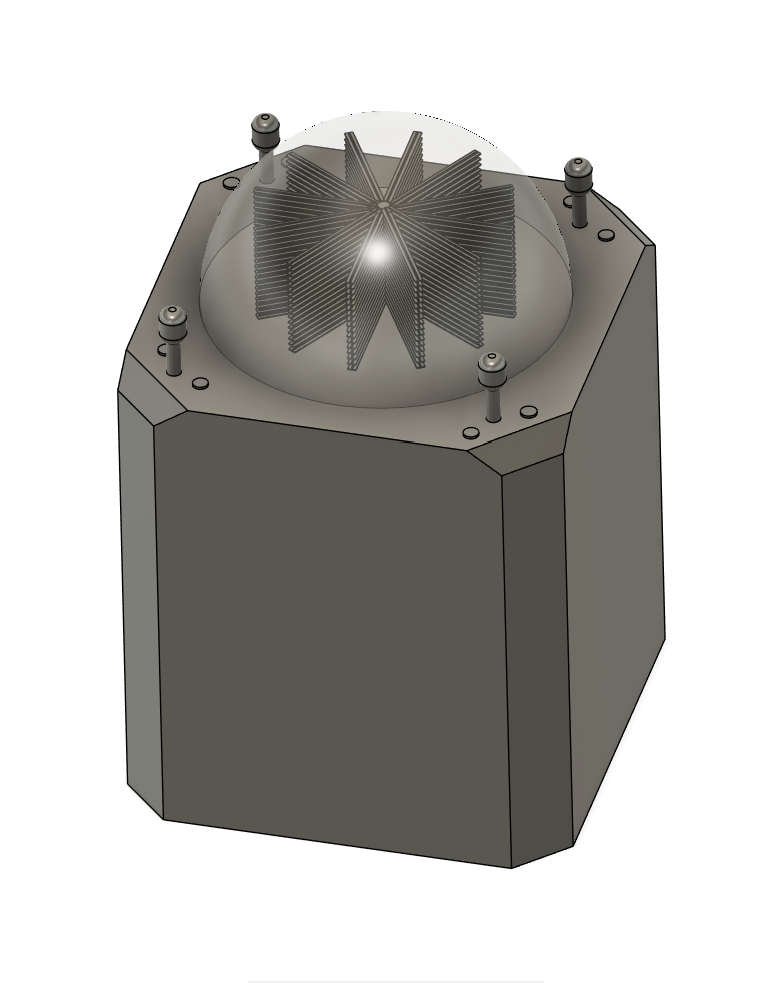
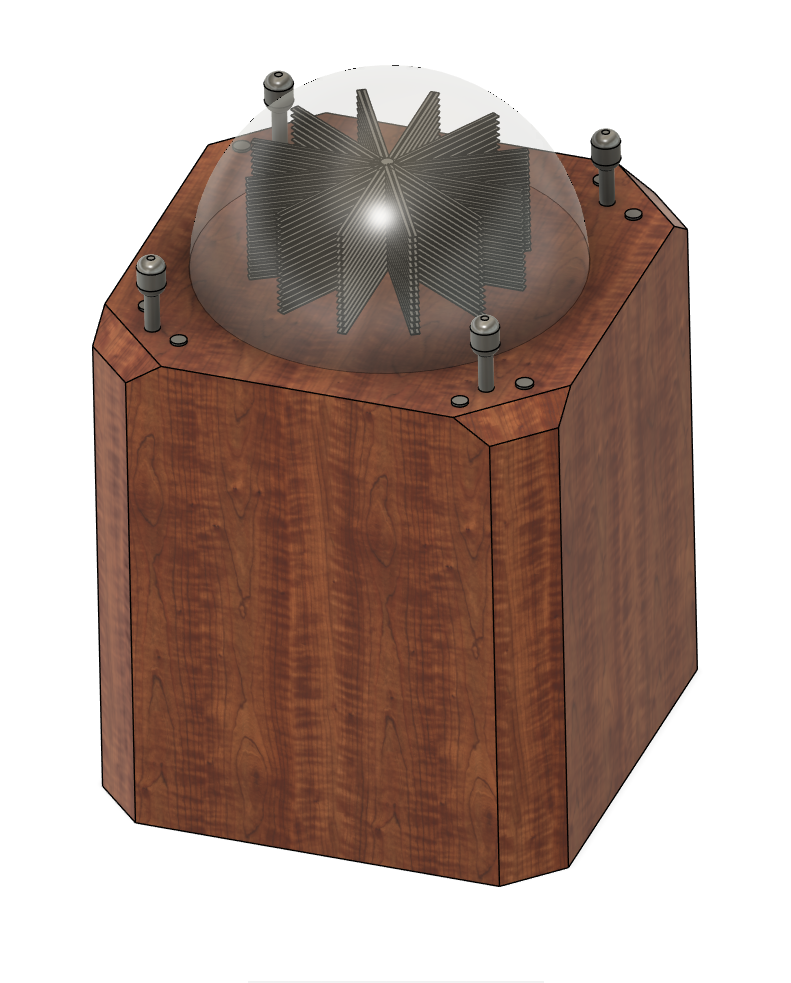
started adding content to tesseract page

diff --git a/projects/tesseract_v1.html b/projects/tesseract_v1.html
@@ -6,7 +6,7 @@
 -->
 <html>
 	<head>
-		<title>Projects - 2304A UI Upgrade - Larry Kresse</title>
+		<title>Projects - Tesseract 3D Display - Larry Kresse</title>
 		<meta charset="utf-8" />
 		<meta name="viewport" content="width=device-width, initial-scale=1, user-scalable=no" />
 		<meta name="description" content="" />
@@ -68,14 +68,14 @@
 					
 						<header>
 							
-							<h1>Keithley 2304A UI Upgrade</h1>
-							<p class="gold_always">An aftermarket upgrade for a 30-year old Power Supply <!--a href="https://twitter.com/ajlkn">@ajlkn</a> / <a href="https://html5up.net">HTML5 UP</a></p-->
+							<h1>Tesseract 3D Display</h1>
+							<p class="gold_always">100lbs of spinning electromechanical components make for an interesting volumetric display <!--a href="https://twitter.com/ajlkn">@ajlkn</a> / <a href="https://html5up.net">HTML5 UP</a></p-->
 							<ul class="actions">
 <!-- 								<li><a href="#first" class="arrow back_arrow"><span class="label">Next</span></a></li>
  -->							</ul>
 						</header>
 						<div class="content">
-							<span class="image fill" data-position="center"><img src="images/psu_ui/bring_up_front.jpg" alt="" /></span>
+							<span class="image fill" data-position="center"><img src="images/tesseract/MkII/assembled-off.png" alt="" /></span>
 						</div>
 					</section>
 
@@ -85,8 +85,10 @@
 							<h2>Background</h2>
 						</header>
 						<div class="content">
-							<p><strong>The Keithley 2304A </strong> is a decent high-speed benchtop power supply. A two-quadrant supply, the unit can output between 0 and 20 volts, source up to 5 amps, and sink up to 3 amps. It is suitable for testing battery-powered communication devices due to its 40uS recovery time after a large load change. They were also made for years, and can be bought for quite cheaply secondhand. The problem? <strong> The UI is borderline unusable. </strong> The buttons are spongy and hard-to-press, and the 90s-era LCD can only be viewed from head-on. Time for an upgrade.</p>
-							<span class="image main"><img src="images/psu_ui/originalUI.jpg" alt="" /></span>
+							<p>I've been interested in <strong><a href="https://en.wikipedia.org/wiki/Persistence_of_vision">Persistence-of-Vision</a>-based displays</strong> for years. You may be familiar with the LED fan displays used in advertising and other signage. They consist of an LED strip mounted on a fan blade. As the blade spins, the LEDs rapidly change color--resulting in an image being displayed in midair. </p>
+
+							<p>The appearance of these LED fan displays is similar to a sci-fi hologram, and most people agree that they look very cool. I wanted to build one, but I felt like this technology could use another dimension. So I began work on the Tesseract 3D display, which is essentially a stack of these 2D advertising displays. </p>
+							<span class="image main"><img src="images/tesseract/MkI/CAD_early_mockup.png" alt="" /></span>
 						</div>
 					</section>
 
@@ -96,22 +98,83 @@
 							<h2>First Steps</h2>
 						</header>
 						<div class="content">
-							<p><strong>The basic design</strong> chosen takes advantage of a built-in feature of the 2304A: the Remote Display Option. Because the 2304A was intended to be mounted in test racks far from your bench, it could be controlled with a remote UI that plugs into the back panel of the unit. Unfortunately, little information about this Remote Display exists, so reverse-engineering of the system is necessary.  </p>
+							<p><strong>The initial design</strong> was inspired by a cocktail arcade cabinet. 4 Josticks and buttons allow 4 players to interact with a game running on the 3D display. A polycarbonate dome protects the users from the rapidly-spinning stack of LED blades. </p>
+
+							<p>An important step in constructing anything complicated is diagramming the <strong>functionality and system architecture.</strong> This helps me catch design oversights before I touch a CAD program or spare parts drawer. </p>
+
 
 							<!-- Section -->
 								<section>
 									<header>
-										<h3>Reverse Engineering</h3>
-										<p class="gold">Through tracing the serial port pins from the original UI microcontroller, through a RS-232 IC, and to the power supply's mainboard, I learned what pins to probe to view the communication traffic. </p>
+										<h3>General design</h3>
+										<p class="gold">The Tesseract has 2 main components: the spinning side and the static side. The spinning side contains the LEDs which are spun to create the visual effect of solid 3D images. The static side contains power supplies, controllers, and mechanical mounting components needed to power, control, and protect the spinning side.</p>
 										
-										<p class="gold">After that, it was as simple as setting the oscilloscope to Serial one-shot trigger. By recording the values transmitted, I determined that each key press results in a character being sent across the RS-232 bus.  </p>
+										<p class="gold">Each LED blade consists of an <a class="gold" href="https://www.espressif.com/en/products/socs/esp32-s3">ESP32-S3-based</a> embedded sysystem and 180 RGB LEDs. The LED blades are controlled over SPI, and also accept a SYNC signal that is generated when the spinning side passes a "flag" on the static side.  </p>
 										
-										<p class="gold">A bit more reverse-engineering revealed that the full text shown on the display (plus a few control characters) is sent after each key press. </p>
+										<p class="gold">A brushless motor and a <a class="gold" href="https://vesc-project.com/">VESC controller</a> intended for electric bike applications provides the torque needed to spin up the display. </p>
+
+										<p class="gold">A custom slip ring transfers power between the static side and the spinning side via a set of graphite brushes. </p>
+
+										<p class="gold">Expecting the slip ring to be electrically noisy, I opted for a wireless control scheme for transmitting data from the static to spinning side. </p>
+
 									</header>
 									<div class="content">
 										<div class="gallery">
-											<a id="dynamicProjectImage" href="images/psu_ui/reverse_engineer_rs232.jpg" class="landscape"><img src="images/psu_ui/reverse_engineer_rs232.jpg" alt="" /></a>
-											
+											<a id="dynamicProjectImage" href="images/tesseract/MkI/tesseract-overview.png" class="landscape"><img src="images/tesseract/MkI/tesseract-overview.png" alt="" /></a>
+											<a id="dynamicProjectImage" href="images/tesseract/MkI/Tesseract-BlockDiagram.jpg" class="landscape"><img src="images/tesseract/MkI/Tesseract-BlockDiagram.jpg" alt="" /></a>
+
+										</div>
+									</div>
+								</section>
+
+							<!-- Section -->
+								<section>
+									<header>
+										<h3>LED Fan Blade Layout</h3>
+										<p class="gold">The intial arcade-inspired display mockup also included this LED fan blade layout: 12 stacks of blades are attached to a central axis. </p>
+										
+										<p class="gold">This design provided some space between the LED blades, allowing LEDs in deeper parts of the display volume to be visible.  </p>
+										
+										<p class="gold">In practice, I didn't really like this design. The opaque LED blade PCBs would block too many of the LEDs from other spinning blades. </p>
+
+										<p class="gold">I used <a class="gold" href="https://openscad.org/">OpenSCAD</a> to make a few animated mockups, showing what the LED fan stack would look like through a full rotation. Then, I picked a layout that seemed to provide a good viewing angle to all LED blade layers. </p>
+
+										<p class="gold">The yellow layout in the animation is what I settled on, and I am pretty happy with how the spiral layout preserves much of the viewing angles of LED strips deep in the display.  </p>
+
+									</header>
+									<div class="content">
+										<div class="gallery">
+											<a id="dynamicProjectImage" href="images/tesseract/MkI/CAD_early_LED_layout.png" class="landscape"><img src="images/tesseract/MkI/CAD_early_LED_layout.png" alt="" /></a>
+											<a id="dynamicProjectImage" href="images/tesseract/MkI/CAD_Design_spiralsim.gif" class="landscape"><img src="images/tesseract/MkI/CAD_Design_spiralsim.gif" alt="" /></a>
+
+										</div>
+									</div>
+								</section>
+
+								<!-- Section -->
+								<section>
+									<header>
+										<h3>Dome sweet dome</h3>
+										<p class="gold">With the initial design figured out, I promptly ran into sourcing problems. In order for this to be remotely safe, a polycarbonate dome needs to cover the spinning LED blades.</p>
+										
+										<p class="gold">And, a custom polycarbonate dome of the size I planned would cost nearly $1000. Acrylic is more common, cheaper, and more transparent, but often shatters under impact--not ideal for this use case!</p>
+										
+										<p class="gold">I ended up finding a solution in an unlikely place: the old Cyclone arcade game. I bought a cyclone machine from an arcade game warehouse, <a class="gold" href="https://www.facebook.com/DaytonArcadesAndMore/">Dayton Arcades and More.</a>  </p>
+
+										<p class="gold">That solved the dome sourcing issue, but now I had to redesign the device. Scaling up my arcade cabinet design to fit this massive dome would mean a huge cabinet, and I do need this to be movable for travel. </p>
+
+										<p class="gold">Combining the new spiral LED layout and new (to me) dome, I quickly designed a new circular cabinet, with weight-reducing speed holes. In the last image of this section's gallery, you can also see the slip ring mockup, planned motor placement, and twin LED fan blade supports. The body of the cabinet will be made out of 3/4" plywood, and is designed to slot together for easily assembly. </p>
+
+									</header>
+									<div class="content">
+										<div class="gallery">
+											<a id="dynamicProjectImage" href="images/tesseract/MkI/cyclone.jpg" class="landscape"><img src="images/tesseract/MkI/cyclone.jpg" alt="" /></a>
+											<a id="dynamicProjectImage" href="images/tesseract/MkI/tesseract_dome-cyclone.png" class="landscape"><img src="images/tesseract/MkI/tesseract_dome-cyclone.png" alt="" /></a>
+											<a id="dynamicProjectImage" href="images/tesseract/MkI/CAD_Design_V1_overview.png" class="landscape"><img src="images/tesseract/MkI/CAD_Design_V1_overview.png" alt="" /></a>
+											<a id="dynamicProjectImage" href="images/tesseract/MkI/CAD_Design_V1_side.png" class="landscape"><img src="images/tesseract/MkI/CAD_Design_V1_side.png" alt="" /></a>
+
+
+
 										</div>
 									</div>
 								</section>